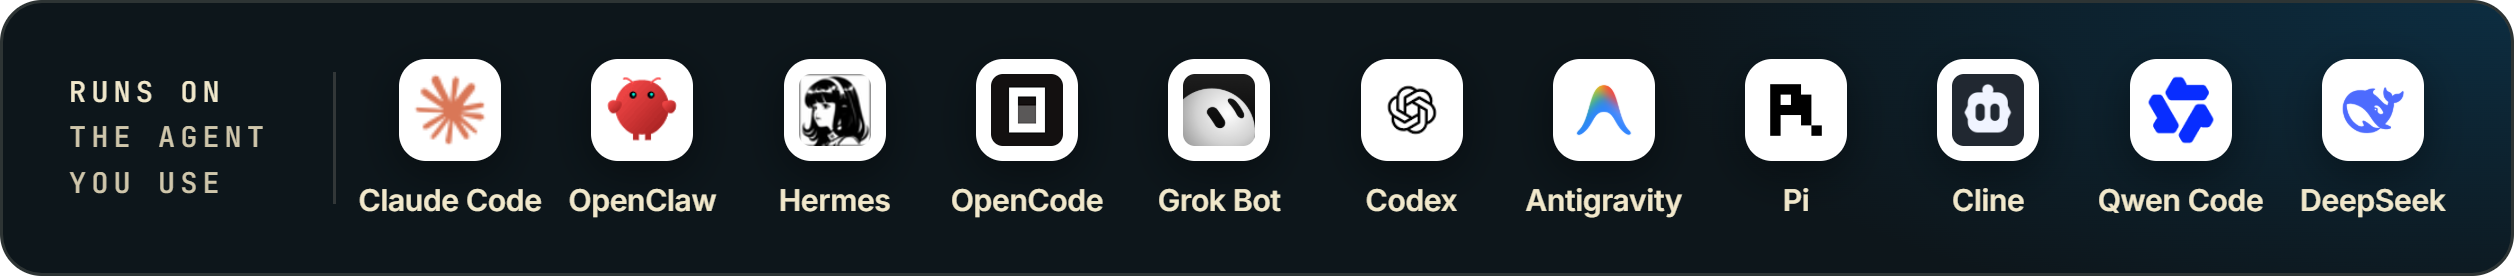
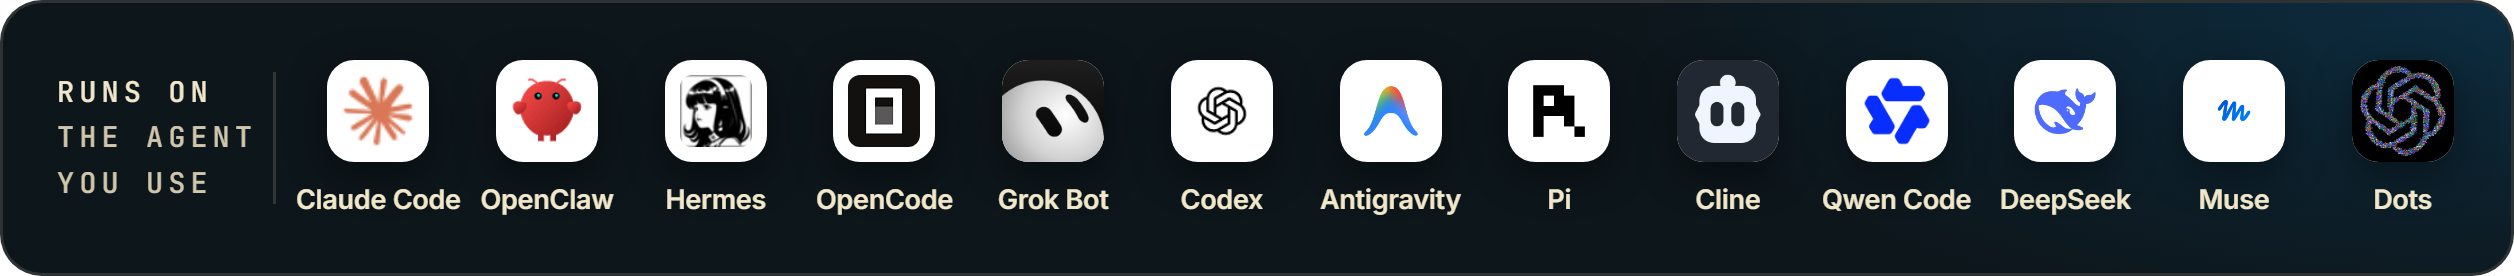
Add Muse and Dots to the harness docs
- docs/HARNESSES.md: a row for Muse and one for Dots, and Dots in the hosted shape section beside Grok Bot and Codex cloud
- README, CONTRIBUTING, hire skill, FAQ, INSTALL, PREREQUISITES and WHAT-SETS-THEM-APART name thirteen harnesses; prerequisites counts follow
- README strip re-rendered with both icons
- Muse was missing here although the club and the insights reference already list it

diff --git a/assets/src/harness-strip.html b/assets/src/harness-strip.html
@@ -1,16 +1,16 @@
 <!doctype html><html><head><meta charset="utf-8">
 <link href="https://fonts.googleapis.com/css2?family=Inter:wght@500;600&family=JetBrains+Mono:wght@500&display=swap" rel="stylesheet">
 <style>
-/* The README compatibility strip: the eleven agents in docs/HARNESSES.md, in
+/* The README compatibility strip: the thirteen agents in docs/HARNESSES.md, in
    that order. A navy card so it reads the same on GitHub's light and dark
    themes, and every icon sits on its own white tile so a dark mark never
    disappears into the ground. Icons are each brand's own favicon, the same
    files the club's harness bar uses. */
 html,body{margin:0;padding:0;background:transparent}
 .s{position:relative;width:838px;height:92px;box-sizing:border-box;border-radius:14px;overflow:hidden;background:#0D161B;border:1px solid rgba(241,232,203,.14);
- display:flex;align-items:center;padding:0 14px 0 22px;font-family:Inter,system-ui,sans-serif}
+ display:flex;align-items:center;padding:0 8px 0 18px;font-family:Inter,system-ui,sans-serif}
 .glow{position:absolute;inset:0;background:radial-gradient(420px 160px at 100% 0%,rgba(11,127,199,.22),transparent 70%)}
-.label{position:relative;flex:none;width:88px;font-family:"JetBrains Mono",monospace;font-weight:500;font-size:9.5px;line-height:1.6;letter-spacing:.18em;color:#cfc6ab}
+.label{position:relative;flex:none;width:72px;font-family:"JetBrains Mono",monospace;font-weight:500;font-size:9.5px;line-height:1.6;letter-spacing:.18em;color:#cfc6ab}
 .label b{display:block;color:#f1e8cb;font-weight:500}
 .rule{position:relative;flex:none;width:1px;height:44px;background:rgba(241,232,203,.16);margin-right:6px}
 .row{position:relative;flex:1;display:flex;align-items:flex-start}
@@ -18,7 +18,7 @@ html,body{margin:0;padding:0;background:transparent}
 .t{width:34px;height:34px;margin:0 auto;border-radius:9px;background:#fff;display:flex;align-items:center;justify-content:center;overflow:hidden;box-shadow:0 4px 14px rgba(0,0,0,.4)}
 .t img{width:24px;height:24px;display:block;border-radius:4px}
 .t.full img{width:34px;height:34px;border-radius:0}
-.n{margin-top:7px;font-size:10px;font-weight:600;color:#f1e8cb;white-space:nowrap;letter-spacing:-.01em}
+.n{margin-top:7px;font-size:9px;font-weight:600;color:#f1e8cb;white-space:nowrap;letter-spacing:-.01em}
 </style></head><body>
 <div class="s"><div class="glow"></div>
 <div class="label"><b>RUNS ON</b>THE AGENT<br>YOU USE</div><div class="rule"></div>
@@ -26,7 +26,7 @@ html,body{margin:0;padding:0;background:transparent}
 </div>
 <script>
 const base="../../../agent-ops-club/public/img/harnesses/";
-const list=[["claude-code","Claude Code"],["openclaw","OpenClaw"],["hermes","Hermes"],["opencode","OpenCode"],["grokbot","Grok Bot"],["codex","Codex"],["antigravity","Antigravity"],["pi","Pi"],["cline","Cline"],["qwen-code","Qwen Code"],["deepseek","DeepSeek"]];
+const list=[["claude-code","Claude Code"],["openclaw","OpenClaw"],["hermes","Hermes"],["opencode","OpenCode"],["grokbot","Grok Bot"],["codex","Codex"],["antigravity","Antigravity"],["pi","Pi"],["cline","Cline"],["qwen-code","Qwen Code"],["deepseek","DeepSeek"],["muse","Muse"],["dots","Dots"]];
 const full=new Set(location.hash.slice(1).split(",").filter(Boolean));
 document.getElementById("row").innerHTML=list.map(([s,n])=>`<div class="h"><div class="t${full.has(s)?" full":""}"><img src="${base}${s}.png"></div><div class="n">${n}</div></div>`).join("");
 </script>

diff --git a/docs/HARNESSES.md b/docs/HARNESSES.md
@@ -2,7 +2,7 @@
 
 Every routine is one `SKILL.md` with `name` and `description` frontmatter, plain markdown instructions, and no clock time in it. Any harness that can read files, write files, run a command, read the clock, and (ideally) drive your signed in browser can run one. What differs is the scheduler and the invocation, and this page has both for each harness, with the one thing to check on a first run.
 
-The kits are built for Claude Code, OpenClaw, Hermes, OpenCode, Grok Bot, Codex, Antigravity, Pi, Cline, Qwen Code and DeepSeek, and run on Windows, macOS and Linux. Claude Code on Windows is where the GTM Engineer has run my own club launch every weekday since August 27.
+The kits are built for Claude Code, OpenClaw, Hermes, OpenCode, Grok Bot, Codex, Antigravity, Pi, Cline, Qwen Code, DeepSeek, Muse and Dots, and run on Windows, macOS and Linux. Claude Code on Windows is where the GTM Engineer has run my own club launch every weekday since August 27.
 
 Two rules hold on every harness. **Routines are scheduled jobs, not skills**: point the scheduler at the kit's `routines/` folder and never copy them into a global skills directory, because a skills directory loads all of them into every session you open and lets any of them be invoked outside its window, where it will only record a skip and exit. **Keep one copy**: every routine ends with a `## Corrections` section you write into and it reads on its next run, and two copies means you write into one and it reads from the other.
 
@@ -23,6 +23,8 @@ Two rules hold on every harness. **Routines are scheduled jobs, not skills**: po
 | Cline | Ready | Built in cron: `cline schedule create "<prompt>" --cron "<cron>"`, one per routine, auto approve on | The prompt is `Read <root>/routines/<id>/SKILL.md and follow it.` | That a scheduled run starts in the kit folder, and that auto approve is on so it never hangs | `~/.cline/mcp.json`, Streamable HTTP with a token header |
 | Qwen Code | Ready | Built in scheduled tasks, or the operating system's | `qwen -p "<prompt>"`, confirm against `qwen --help` | That it can write inside the kit folder and reach the network | `qwen mcp add <name> <url>`, or `mcpServers` in `~/.qwen/settings.json` |
 | DeepSeek | Ready | Its scheduling plugin, one run per routine | `dsh` runs a local server; confirm the headless prompt form against `dsh --help` | Whether it drives your signed in browser profile or a clean one | Its MCP plugin, one server per plugin row |
+| Muse | Ready | Muse Code has loop jobs that stop when the terminal closes, so use the operating system's, one job per routine. Muse, the personal agent, runs crons on its own cloud machine | Muse Code: `muse exec` with approvals disabled and `Read <root>/routines/<id>/SKILL.md and follow it.` as the prompt. Muse: the same prompt as a cron on its cloud machine | Muse Code reads the Claude Code skill format directly and imports existing skills with one command; confirm it with `muse exec` on one routine. For Muse, whether its cloud machine can reach your signed in accounts at all | MCP servers connected in Muse Code; connectors in Muse |
+| Dots | Ready | Always on from its own cloud computer, so ask your dot to run each routine on the schedule `SCHEDULE.md` names, one task per routine | You give your dot the kit and each routine's `Read <root>/routines/<id>/SKILL.md and follow it.` as the task, from ChatGPT, Slack or Teams | That the dot keeps the kit folder on its own computer between runs, and can reach the accounts the routine reads. Open its computer and read the first run. Its background research uses read only tools, and sensitive actions such as changing a password always stay with you | Plugins, connected through your ChatGPT app controls, with Custom Rules to allow, require approval for or block specific actions |
 
 Every kit's `CAPABILITIES.md` section 4b names the connections that read its accounts without a browser, with the read only form of each route. The column above is how each harness adds one. A kit never installs a connection; the install prompt checks for each and names the absent ones in its handover.
 
@@ -35,12 +37,13 @@ Every kit's `CAPABILITIES.md` section 4b names the connections that read its acc
 
 ## Grok Bot, and the hosted shape it set
 
-Grok Bot is the one harness on this page whose computer is not yours, and the shape is worth writing down once because Codex cloud and Meta Muse share it. Everything here comes from operators' published accounts of the product in August 2026, and each kit's `CAPABILITIES.md` marks it `expected` until you write `confirmed` into `## Corrections`.
+Grok Bot is the one harness on this page whose computer is not yours, and the shape is worth writing down once because Codex cloud, Meta Muse and OpenAI Dots share it. Everything here comes from operators' published accounts of the product in August 2026, and each kit's `CAPABILITIES.md` marks it `expected` until you write `confirmed` into `## Corrections`.
 
 - **One computer for every bot.** All the bots on an account share one persistent Linux machine with a terminal, file access and a real browser. Each bot has its own screen and runs one computer-use task at a time; several bots can drive the browser at once. So the kit lives on that computer, the bot installs it there itself, and the cloud sync rule does not apply.
 - **One bot per Employee, one task per routine.** Name the bot after the role, paste the kit's `AGENTS.md` into its Instructions field (it is the map that points at the files, and it is short enough to fit), and register one recurring task per routine with the Shape B prompt. Do not turn the routines into the bot's workflows: a workflow is invoked on demand, a routine runs in a window.
 - **Bots are not a security boundary.** Files, browser sessions and app logins are shared by every bot on the computer. A release you write for one Employee is a file every bot can read; a session you sync there is a session every bot can use. Scope by what you sign in to, never by which bot you talk to, and start read only on public pages before you sync anything.
 - **Staying signed in is a sync you run.** Nothing in a kit signs in, so your sessions reach the bot's browser only if you signed in there or you keep them there with a cookie sync such as Agent Cookie (Chrome cookies from a Mac to the bot over Tailscale, every fifteen minutes). The kit names it under `browser.session`, detects it, and installs nothing.
+- **Dots is the same shape inside ChatGPT.** OpenAI announced it on September 29, 2026: each dot has its own cloud computer and browser, is powered by GPT-6 Astra, connects to apps through plugins, and reaches you from ChatGPT, Slack and Teams. It is rolling out to Pro and Business Premium plans in eligible markets, with an Enterprise beta. You can open its computer at any time, which makes the first run easy to inspect. Its Activity View shows background work, and Custom Rules set what it may do without asking.
 - **The brief comes to your thread.** You never open that computer's files, so the standup resolves `brief.deliver` and posts `brief-latest.md` into the bot's own thread, which the Grok app carries to your phone. The file stays the record.
 - **Two more routes.** Claude Code can be logged in on the bot's computer, which turns the Grok Bot row into the Claude Code CLI row with Grok Bot as the scheduler. Peekaboo, installed by you on a Mac, lets the bot see and click native Mac apps over the same link. Both are yours to add.
 - **Watch the meter.** Plans carry a weekly usage allowance and fleet work moves it fast. Start on the lowest tier that includes bots, run one Employee for a week, and read the meter before you add a second.

diff --git a/docs/PREREQUISITES.md b/docs/PREREQUISITES.md
@@ -2,13 +2,13 @@
 
 Ten things, and one optional eleventh. Every line here was either measured on my own machine or read from the vendor's own page, and the install prompt checks the ones it can. Read this before `npx ai-employees hire` or a clone, because the one thing that fails silently is the login, and it fails after everything else looks fine.
 
-The kits run on eleven harnesses: Claude Code, OpenClaw, Hermes, OpenCode, Grok Bot, Codex, Antigravity, Pi, Cline, Qwen Code and DeepSeek. Claude Code is the worked example in every item below because it is the one I run these on every weekday. Where another harness differs, the item says so, and `docs/HARNESSES.md` has the scheduler, the invocation and the first run check for each of the eleven.
+The kits run on thirteen harnesses: Claude Code, OpenClaw, Hermes, OpenCode, Grok Bot, Codex, Antigravity, Pi, Cline, Qwen Code, DeepSeek, Muse and Dots. Claude Code is the worked example in every item below because it is the one I run these on every weekday. Where another harness differs, the item says so, and `docs/HARNESSES.md` has the scheduler, the invocation and the first run check for each of the thirteen.
 
 ## 1. An agent harness that can do four things
 
 Read and write files in a folder, read the machine clock and timezone, run a local command, and, for the browser lane, drive a browser that carries your own signed in sessions. Any of the eleven qualifies. Pick the one you already use; nothing in a kit is written for one harness's tools, because the routines name capabilities and `CAPABILITIES.md` in each kit maps them to a route per harness.
 
-On Claude Code that means a plan that includes it: Pro, Max 5x, Max 20x, Team or Enterprise. The free plan does not include Claude Code. An Anthropic Console API key also works, but it turns the browser lane off (item 6), so the routines that read your own accounts fall back to public pages. On the other ten, the account or key the harness already runs on is the whole requirement; the kits add no credential of their own.
+On Claude Code that means a plan that includes it: Pro, Max 5x, Max 20x, Team or Enterprise. The free plan does not include Claude Code. An Anthropic Console API key also works, but it turns the browser lane off (item 6), so the routines that read your own accounts fall back to public pages. On the other twelve, the account or key the harness already runs on is the whole requirement; the kits add no credential of their own.
 
 ## 2. The harness installed, in a shape you can schedule
 
@@ -21,7 +21,7 @@ On Claude Code the two shapes are:
 
 Minimums from Claude Code's setup page: macOS 13.0 or later, Windows 10 1809 or later, Ubuntu 20.04 or later, 4 GB of RAM.
 
-On the other ten, install the harness the way its own page says. OpenClaw, Hermes, Cline, Qwen Code, Codex, Antigravity and DeepSeek bring a scheduler; Grok Bot runs its schedule from its own cloud computer; OpenCode and Pi have none of their own and pair with the operating system's. `docs/HARNESSES.md` has one row per harness.
+On the other twelve, install the harness the way its own page says. OpenClaw, Hermes, Cline, Qwen Code, Codex, Antigravity and DeepSeek bring a scheduler; Grok Bot, Muse and Dots run their schedules from a cloud computer of their own; OpenCode and Pi have none of their own and pair with the operating system's. `docs/HARNESSES.md` has one row per harness.
 
 ## 3. Logged in, by a human, once
 
@@ -60,7 +60,7 @@ On Claude Code that means Google Chrome or Microsoft Edge, the Claude in Chrome 
 Your harness's own, where it has one:
 
 - The Claude Desktop app's local scheduled tasks (Routines, Local), one task per routine, named after the routine id.
-- The built in cron in OpenClaw, Hermes, Cline and Qwen Code; Codex scheduled runs; the Antigravity `agy` job runner; the DeepSeek scheduling plugin; a recurring task per routine on Grok Bot.
+- The built in cron in OpenClaw, Hermes, Cline and Qwen Code; Codex scheduled runs; the Antigravity `agy` job runner; the DeepSeek scheduling plugin; a recurring task per routine on Grok Bot, Muse and Dots.
 
 Otherwise the operating system's:
 
@@ -88,4 +88,4 @@ Every kit's `CAPABILITIES.md` has a section 4b naming the connections that read 
 
 ## Where it runs
 
-Built for Claude Code, OpenClaw, Hermes, OpenCode, Grok Bot, Codex, Antigravity, Pi, Cline, Qwen Code and DeepSeek, and runs on Windows, macOS and Linux. Windows through the Desktop app scheduler or Task Scheduler, macOS through the Desktop app or launchd, Linux through cron, and the harnesses with a scheduler of their own through that. `docs/HARNESSES.md` has the invocation and the first run check for each, and `docs/INSTALL.md` has the steps per operating system.
+Built for Claude Code, OpenClaw, Hermes, OpenCode, Grok Bot, Codex, Antigravity, Pi, Cline, Qwen Code, DeepSeek, Muse and Dots, and runs on Windows, macOS and Linux. Windows through the Desktop app scheduler or Task Scheduler, macOS through the Desktop app or launchd, Linux through cron, and the harnesses with a scheduler of their own through that. `docs/HARNESSES.md` has the invocation and the first run check for each, and `docs/INSTALL.md` has the steps per operating system.

diff --git a/docs/WHAT-SETS-THEM-APART.md b/docs/WHAT-SETS-THEM-APART.md
@@ -5,7 +5,7 @@
 - **One push to your phone, only when you are the blocker.** A login expired, a credential is missing, your conversion tracking stopped while ads are live, or a run died holding the browser. Four cases and no fifth. One short line, never twice for the same thing, never outside your working hours, never on a first run. Everything else waits for the brief. [The one push](STANDARD.md#23-the-one-push).
 - **The brief comes to you.** After the standup writes it, the routine brings it to wherever you are: the dashboard on your own machine, the Employee's own thread on a hosted agent such as Grok Bot, or your own inbox where a mail route exists. A brief on a computer you never open is no brief, so on a hosted harness it lands in your thread and the Grok app carries it to your phone.
 - **They use the connections you already have.** Where your agent already has a connector for an account, the routine reads through it instead of the screen: Meta's own Ads MCP server for an ad account, the Gmail connector for drafts and replies, the Vercel and Supabase connectors for logs and advisors, Metricool for publishing. Each kit names its connections in one table, uses them read only, and works without any of them; nothing is installed for you.
-- **They run on the agent you already use.** Claude Code, OpenClaw, Hermes, OpenCode, Grok Bot, Codex, Antigravity, Pi, Cline, Qwen Code and DeepSeek, without a routine changing by one word. Routines describe what they need done, and one file per kit says how each agent does it.
+- **They run on the agent you already use.** Claude Code, OpenClaw, Hermes, OpenCode, Grok Bot, Codex, Antigravity, Pi, Cline, Qwen Code, DeepSeek, Muse and Dots, without a routine changing by one word. Routines describe what they need done, and one file per kit says how each agent does it.
 - **One routine, one job, one output.** Routines run solo and never supervise each other; the Chief of Staff reads their run logs afterwards and names what quietly stopped. Crews of agents that hand work to each other unsupervised have been measured multiplying their own errors many times over, and a wrong step here lands in your brief instead of in three other routines.
 - **You can direct any of them in chat.** Open a session in the employee's folder and it does anything you could do by hand, on your word: tick a card you confirmed, stage a form now, retune a strategy file, correct a stale brief. It leaves the same trail a routine would, and the scheduled runs treat that work as yours.
 - **You set how far they go.** Every employee drafts, fills and stages by default, and the last click is yours. Release a channel in `RELEASES.md` and the routine completes that action itself from then on. Your agent's own permission settings are the gate, and every file in the kit is plain text in your own folder, yours to change.

diff --git a/docs/INSTALL.md b/docs/INSTALL.md
@@ -122,7 +122,7 @@ One line per routine, from `CAPABILITIES.md` section 9.3, with the full path to 
 
 ### The other ten harnesses
 
-OpenClaw, Hermes, Cline and Qwen Code have a built in cron, Codex has scheduled runs, Antigravity has the `agy` job runner, DeepSeek schedules through a plugin, and Grok Bot runs recurring tasks from its own cloud computer: register one job per routine in that scheduler, with the kit folder as the working directory, the fire time from `SCHEDULE.md`, and the prompt `Read <root>/routines/<id>/SKILL.md and follow it.`. OpenCode and Pi have no scheduler of their own, so use the operating system's route above with their headless command in place of `claude -p`. `docs/HARNESSES.md` has the exact invocation and the first run check for each, and the same rule holds everywhere: run one routine by hand before you register the rest. Grok Bot is the one whose computer is not yours: the bot installs the kit on its own cloud computer, you paste the kit's `AGENTS.md` into the bot's Instructions field, and the brief reaches you in the bot's thread. The hosted section of `docs/HARNESSES.md` has the rest, including what the shared computer means for your logins.
+OpenClaw, Hermes, Cline and Qwen Code have a built in cron, Codex has scheduled runs, Antigravity has the `agy` job runner, DeepSeek schedules through a plugin, and Grok Bot, Muse and Dots run recurring tasks from a cloud computer of their own: register one job per routine in that scheduler, with the kit folder as the working directory, the fire time from `SCHEDULE.md`, and the prompt `Read <root>/routines/<id>/SKILL.md and follow it.`. OpenCode and Pi have no scheduler of their own, so use the operating system's route above with their headless command in place of `claude -p`. `docs/HARNESSES.md` has the exact invocation and the first run check for each, and the same rule holds everywhere: run one routine by hand before you register the rest. Grok Bot is the one whose computer is not yours, and Muse and Dots share that shape: the bot installs the kit on its own cloud computer, you paste the kit's `AGENTS.md` into the bot's Instructions field, and the brief reaches you in the bot's thread. The hosted section of `docs/HARNESSES.md` has the rest, including what the shared computer means for your logins.
 
 ## What a first day looks like
 

diff --git a/assets/README.md b/assets/README.md
@@ -12,7 +12,7 @@ The README wordmark is `logo-light.png` and `logo-dark.png`, 1680 by 400 with a 
 
 The four header buttons are `btn-install.png`, `btn-join.png`, `btn-sessions.png` and `btn-club.png`, one image each so each keeps its own link and its own `utm_content`. They are 60 tall and as wide as their own text (260, 199, 163 and 186), rendered at three times scale from `src/header-buttons.html` with `#install`, `#join`, `#sessions` or `#club` on the URL and `--window-size=<width>,60`. The club's three colours carry the order of importance: cream for the primary action, signal blue for the second, navy for the two that follow. Every button has a rim, so cream holds on GitHub's light theme and navy on its dark one.
 
-`harness-strip.png` is the compatibility strip in the README header: 838 by 92, rendered at three times scale. It shows the eleven agents in `docs/HARNESSES.md`, in that order, each brand's own favicon on a white tile so a dark mark never disappears into the navy. It renders from `src/harness-strip.html`, which reads the icons from the club repository checked out beside this one (`agent-ops-club/public/img/harnesses`). Rebuild it with `--allow-file-access-from-files --force-device-scale-factor=3 --window-size=838,92`. Adding a harness means adding it to `docs/HARNESSES.md`, to the list in that page, and to the alt text in the README.
+`harness-strip.png` is the compatibility strip in the README header: 838 by 92, rendered at three times scale. It shows the thirteen agents in `docs/HARNESSES.md`, in that order, each brand's own favicon on a white tile so a dark mark never disappears into the navy. It renders from `src/harness-strip.html`, which reads the icons from the club repository checked out beside this one (`agent-ops-club/public/img/harnesses`). Rebuild it with `--allow-file-access-from-files --force-device-scale-factor=3 --window-size=838,92`. Adding a harness means adding it to `docs/HARNESSES.md`, to the list in that page, and to the alt text in the README.
 
 Three more images live in this folder; the first two and are built from the same eight square thumbnails:
 

diff --git a/CONTRIBUTING.md b/CONTRIBUTING.md
@@ -7,7 +7,7 @@ Thank you for looking under the hood. This repo is eight AI employees, each a fo
 - **Corrections from a real run.** A routine that asked for something it should have researched, a browser flow that no longer matches a site, a rule that reads wrong on a Monday morning. Open an issue with the routine id and what happened, or a pull request with the smallest change that fixes it. From 1.7.0 on your employee drafts these for you: once a month it writes the repairs it made to its own instructions that would help every install to `improvements/contribution-draft-YYYY-MM.md`, with your business taken out. Read it, then paste it into an issue. It never sends anything itself.
 - **Routine requests.** A routine one of the eight should have. Use the routine request template; say which employee, what it would own, and what it must never do, and answer the five questions in `docs/STANDARD.md` section 4: trigger, frequency, output, silence, stop.
 - **Employee proposals.** A ninth role. Use the employee request template. Read `docs/HOW-EMPLOYEES-WORK.md` first, because a proposal that keeps the two guardrails and the schedule model is one I can build on.
-- **Harness notes.** Ran a kit on OpenClaw, Hermes, OpenCode, Grok Bot, Codex, Antigravity, Pi, Cline, Qwen Code or DeepSeek, or on a Mac through launchd or Linux through cron? Open an issue with the invocation you used, what the first run record said, and what you changed, and it goes into the notes in `docs/HARNESSES.md` with your name on the change.
+- **Harness notes.** Ran a kit on OpenClaw, Hermes, OpenCode, Grok Bot, Codex, Antigravity, Pi, Cline, Qwen Code, DeepSeek, Muse or Dots, or on a Mac through launchd or Linux through cron? Open an issue with the invocation you used, what the first run record said, and what you changed, and it goes into the notes in `docs/HARNESSES.md` with your name on the change.
 - **Show and tell.** Post what an AI Employee did for your business in Discussions under Show and tell. Good builds go into the README with your name on them.
 
 ## Before you open a pull request

diff --git a/docs/FAQ.md b/docs/FAQ.md
@@ -8,7 +8,7 @@
 
 **Windows, macOS or Linux?** All three. Windows through the Desktop app scheduler or Task Scheduler, macOS through the Desktop app or launchd, Linux through cron. `docs/INSTALL.md` has the steps for each scheduler and what a first run should look like.
 
-**Which harness?** Built for Claude Code, OpenClaw, Hermes, OpenCode, Grok Bot, Codex, Antigravity, Pi, Cline, Qwen Code and DeepSeek. Claude Code is the one the GTM Engineer runs my own club launch on every weekday. OpenClaw, Hermes, Cline and Qwen Code have built in cron or scheduled tasks, Codex has scheduled runs, Antigravity has the `agy` job runner, DeepSeek schedules through a plugin, OpenCode and Pi use the operating system's scheduler, and Grok Bot runs from its own cloud computer. `docs/HARNESSES.md` has the invocation and the first run check for each.
+**Which harness?** Built for Claude Code, OpenClaw, Hermes, OpenCode, Grok Bot, Codex, Antigravity, Pi, Cline, Qwen Code, DeepSeek, Muse and Dots. Claude Code is the one the GTM Engineer runs my own club launch on every weekday. OpenClaw, Hermes, Cline and Qwen Code have built in cron or scheduled tasks, Codex has scheduled runs, Antigravity has the `agy` job runner, DeepSeek schedules through a plugin, OpenCode and Pi use the operating system's scheduler, and Grok Bot, Muse and Dots run from a cloud computer of their own. `docs/HARNESSES.md` has the invocation and the first run check for each.
 
 **Does it run on Grok Bot?** Yes, with one difference: the bot's computer is not yours. The bot installs the kit on its own cloud computer, you paste the kit's `AGENTS.md` into the bot's Instructions field, one recurring task per routine runs from `SCHEDULE.md`, and the morning brief is posted into the bot's own thread because you never open that computer's files. Every bot on your account shares that computer and every login on it, so scope by what you sign in to, never by which bot you talk to. The hosted section of `docs/HARNESSES.md` has the detail.
 

diff --git a/README.md b/README.md
@@ -36,7 +36,7 @@
 </p>
 
 <p align="center">
-  <a href="https://club.reinventing.ai/ai-employees?utm_source=github&utm_medium=readme&utm_campaign=ai-employees&utm_content=harness-strip#install"><img src="assets/harness-strip.png" width="838" alt="Runs on the agent you use: Claude Code, OpenClaw, Hermes, OpenCode, Grok Bot, Codex, Antigravity, Pi, Cline, Qwen Code and DeepSeek"></a>
+  <a href="https://club.reinventing.ai/ai-employees?utm_source=github&utm_medium=readme&utm_campaign=ai-employees&utm_content=harness-strip#install"><img src="assets/harness-strip.png" width="838" alt="Runs on the agent you use: Claude Code, OpenClaw, Hermes, OpenCode, Grok Bot, Codex, Antigravity, Pi, Cline, Qwen Code, DeepSeek, Muse and Dots"></a>
 </p>
 
 <p align="center">
@@ -83,7 +83,7 @@ This repository is also a Claude Code plugin with one skill, `hire`, and all eig
 
 Then say "hire the GTM Engineer into D:\AgentOps\gtm-engineer", or run `/ai-employees:hire`. The skill checks the folder is outside cloud sync, copies the kit from the plugin with no download, runs the self tests, and tells you the one line to say in a fresh session in that folder. It registers nothing and sends nothing. [The plugin page](https://club.reinventing.ai/plugin?utm_source=github&utm_medium=readme&utm_campaign=ai-employees&utm_content=plugin) has the same steps with a walkthrough.
 
-**Not on Claude Code?** The same two steps work on OpenClaw, Hermes, OpenCode, Grok Bot, Codex, Antigravity, Pi, Cline, Qwen Code and DeepSeek. [docs/HARNESSES.md](docs/HARNESSES.md) has the command for each.
+**Not on Claude Code?** The same two steps work on OpenClaw, Hermes, OpenCode, Grok Bot, Codex, Antigravity, Pi, Cline, Qwen Code, DeepSeek, Muse and Dots. [docs/HARNESSES.md](docs/HARNESSES.md) has the command for each.
 
 <table>
 <tr><td align="center" width="900">

diff --git a/CHANGELOG.md b/CHANGELOG.md
@@ -4,6 +4,7 @@ The repo version tracks the kits. Each employee carries its own `CHANGELOG.md` w
 
 ## Unreleased
 
+- **Muse and Dots join the harness docs.** `docs/HARNESSES.md` gains a row for each: Muse (Meta's Muse Code and the Muse personal agent) and Dots (OpenAI's always on agents, announced September 29, 2026), with Dots added to the hosted shape section beside Grok Bot. The README strip, the prerequisites, install, FAQ and contributing pages now name thirteen harnesses. The kits themselves are unchanged.
 - **A Claude Code plugin.** The repository root is now the plugin `ai-employees` and its own marketplace (`.claude-plugin/plugin.json`, `.claude-plugin/marketplace.json`). `/plugin marketplace add markfulton/ai-employees`, then `/plugin install ai-employees@ai-employees`, and `/ai-employees:hire` is available in every session. The plugin carries all eight kits and the installer, so a hire needs no download.
 - **The `hire` skill, rewritten.** It now runs the bundled installer instead of copying by hand, so a skill hire writes `.installed.json` like an `npx` hire and a later upgrade can tell the member's edits from ours. It adds which employee to hire first, what to check the next weekday, the guardrails, and how a hired employee is directed, corrected, rescheduled and upgraded.
 

diff --git a/skills/hire/SKILL.md b/skills/hire/SKILL.md
@@ -102,7 +102,7 @@ Use this to answer questions after the hire.
 
 **Upgrading.** Once a month the brief says when a newer kit is out. `npx ai-employees upgrade <slug> --to "<folder>"` reports what would change, and `--apply` takes it. It never overwrites a file the user edited.
 
-**Other agents.** The same kits run on OpenClaw, Hermes, OpenCode, Grok Bot, Codex, Antigravity, Pi, Cline, Qwen Code and DeepSeek. `docs/HARNESSES.md` has the command and the scheduler for each.
+**Other agents.** The same kits run on OpenClaw, Hermes, OpenCode, Grok Bot, Codex, Antigravity, Pi, Cline, Qwen Code, DeepSeek, Muse and Dots. `docs/HARNESSES.md` has the command and the scheduler for each.
 
 ## 9. Close
 
